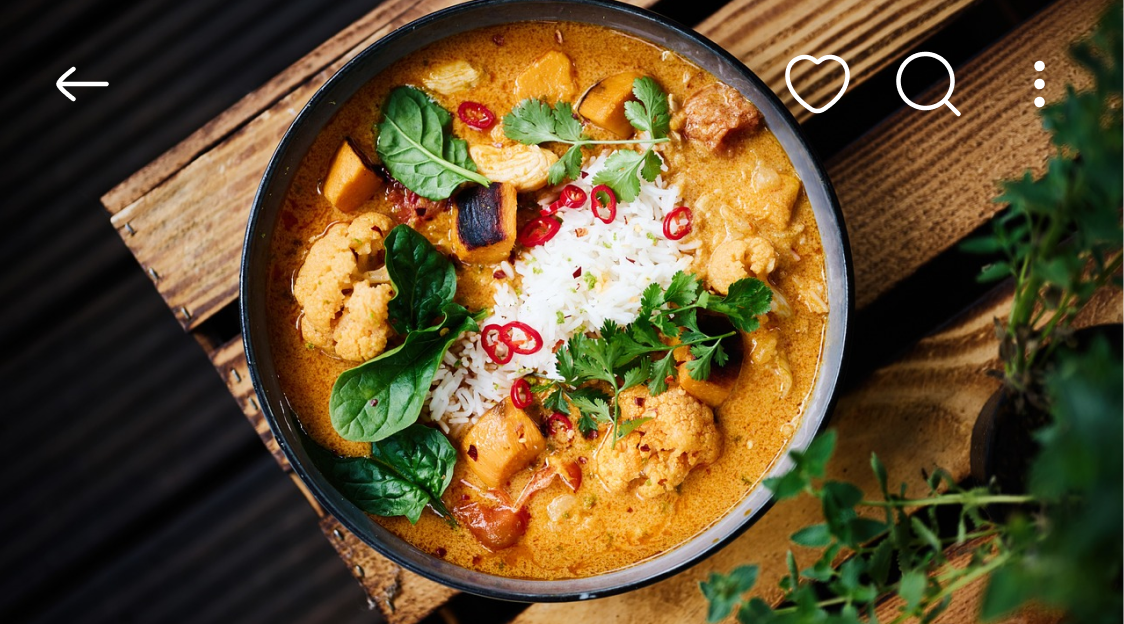
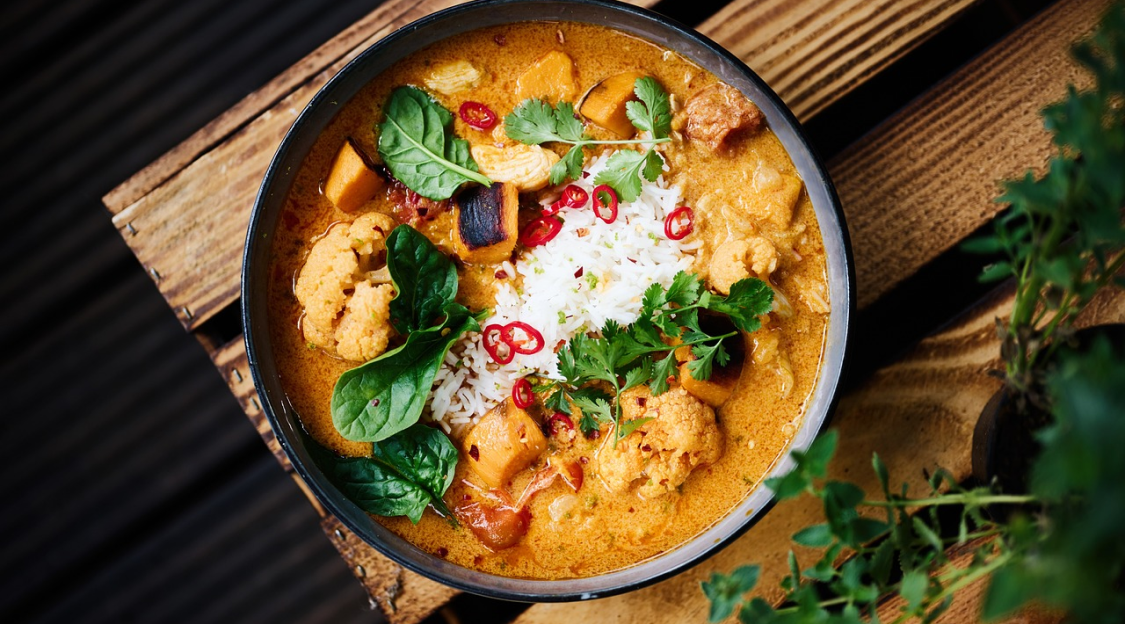
Top widget created

diff --git a/lib/screens/home_screen.dart b/lib/screens/home_screen.dart
@@ -1,4 +1,5 @@
 import 'package:flutter/material.dart';
+import 'package:off_beat_restaurant/widgets/top_widget.dart';
 
 class HomeScreen extends StatefulWidget {
   const HomeScreen({super.key});
@@ -10,9 +11,26 @@ class HomeScreen extends StatefulWidget {
 class _HomeScreenState extends State<HomeScreen> {
   @override
   Widget build(BuildContext context) {
+    final mqh = MediaQuery.of(context).size.height;
+    final mqw = MediaQuery.of(context).size.width;
     return Scaffold(
-      appBar: AppBar(
-        title: const Text('Home'),
+      body: Stack(
+        children: [
+          topWidget(mqh, mqw),
+          Positioned(
+              top: mqh * 0.26,
+              child: Container(
+                  height: mqh,
+                  width: mqw,
+                  decoration: BoxDecoration(
+                    color: Colors.white,
+                    borderRadius: BorderRadius.only(
+                      topLeft: Radius.circular(30),
+                      topRight: Radius.circular(30),
+                    ),
+                  ),
+                  child: Column(children: [])))
+        ],
       ),
     );
   }

diff --git a/lib/widgets/top_widget.dart b/lib/widgets/top_widget.dart
@@ -1,0 +1,28 @@
+import 'package:flutter/material.dart';
+
+Widget topWidget(double mqh, double mqw) {
+  return Container(
+    height: mqh * 0.3,
+    width: mqw,
+    padding: EdgeInsets.all(15),
+    decoration: const BoxDecoration(
+      image: DecorationImage(
+        image: AssetImage('assets/images/main_image.png'),
+        fit: BoxFit.cover,
+      ),
+    ),
+    child: Row(
+        mainAxisAlignment: MainAxisAlignment.spaceBetween,
+        crossAxisAlignment: CrossAxisAlignment.start,
+        children: [
+          Image.asset('assets/icons/arrow-left.png', scale: 3.2),
+          Row(children: [
+            Image.asset('assets/icons/favourite.png', scale: 3.2),
+            SizedBox(width: 10),
+            Image.asset('assets/icons/search.png', scale: 3.2),
+            SizedBox(width: 10),
+            Image.asset('assets/icons/more-vertical.png', scale: 3.2),
+          ])
+        ]),
+  );
+}

diff --git a/lib/main.dart b/lib/main.dart
@@ -1,7 +1,10 @@
 import 'package:flutter/material.dart';
+import 'package:flutter/services.dart';
 import 'package:off_beat_restaurant/screens/home_screen.dart';
 
 void main() {
+  WidgetsFlutterBinding.ensureInitialized();
+  SystemChrome.setEnabledSystemUIMode(SystemUiMode.immersive);
   runApp(const MyApp());
 }
 
